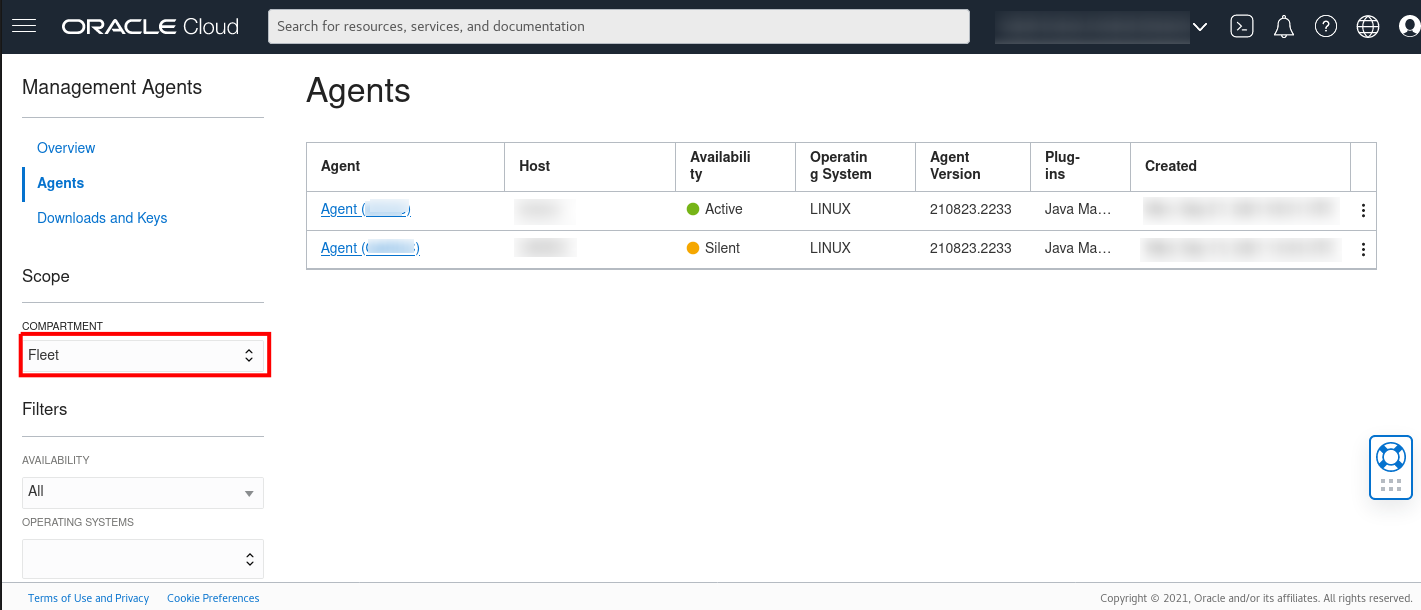
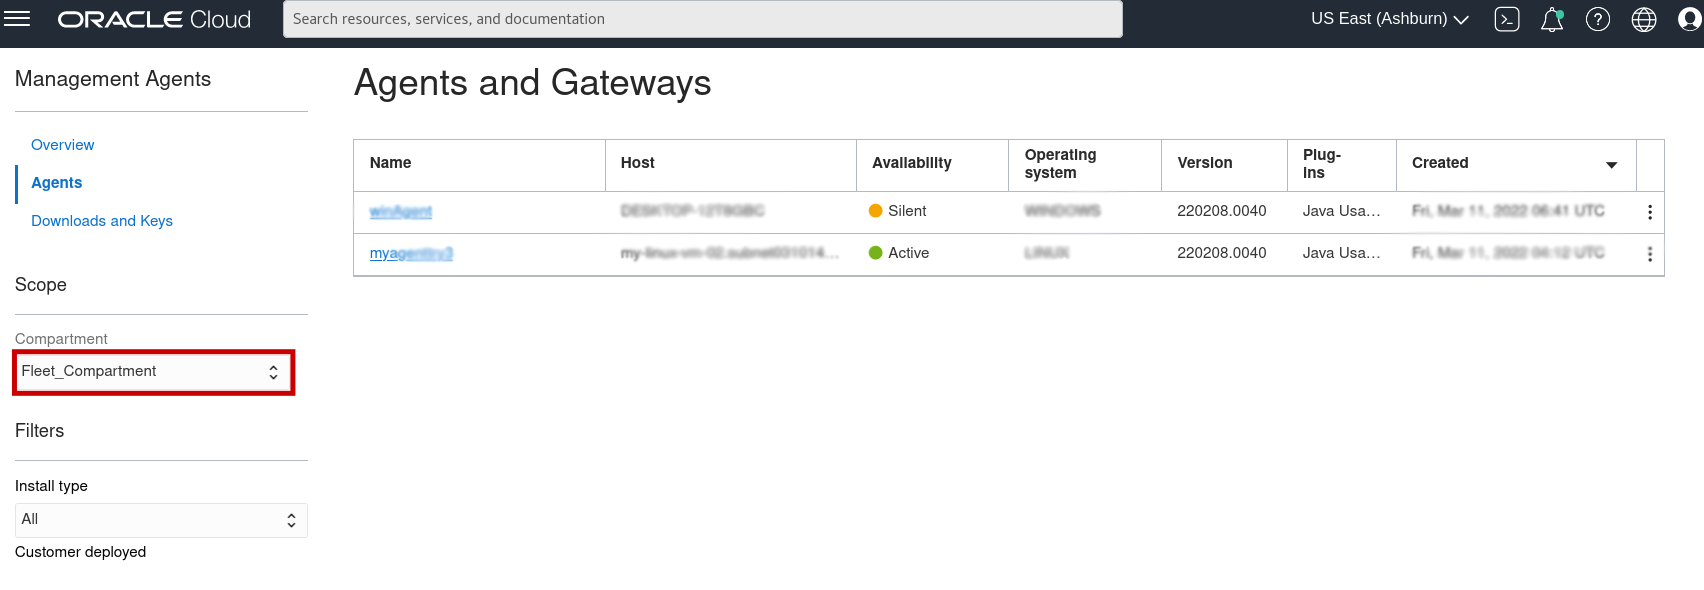
fixed comment 3, 6 and 10

diff --git a/oci-library/oci-hol/java-management/set-up-of-management-agent-windows/set-up-of-management-agent-windows.md b/oci-library/oci-hol/java-management/set-up-of-management-agent-windows/set-up-of-management-agent-windows.md
@@ -206,11 +206,11 @@ Install Management Agent (If your host is Linux, skip to skip to Lab 5: Install 
 
 1. In the Oracle Cloud Console, open the navigation menu, click **Observability & Management**, and then click **Agents** under **Management Agent**.
 
-  ![image of console navigation to access management agent overview](/../images/management-agent-overview.png)
+  ![image of console navigation to access management agent overview](/../images/agents-main-page-new.png)
+
 
 2. From the Agents list, look for the agent that was recently installed.
 
-  ![image of management agent list](/../images/management-agent-list.png)
 
 ## Task 4: Configure Java Usage Tracker
 
@@ -272,9 +272,10 @@ Install Management Agent (If your host is Linux, skip to skip to Lab 5: Install 
 
   ![image of console navigation to java management service](/../images/console-navigation-jms.png)
 
-  * Select the Fleet created in Lab 3.
+  * Select the Fleet created in [Lab 2](?lab=setup-a-fleet).
 
   ![image of fleet page](/../images/check-fleet-ocid-page.png)
+
 
   * Take note of the fleet ocid for steps 2-4.
 

diff --git a/oci-library/oci-hol/java-management/set-up-of-management-agent-linux/set-up-of-management-agent-linux.md b/oci-library/oci-hol/java-management/set-up-of-management-agent-linux/set-up-of-management-agent-linux.md
@@ -160,7 +160,7 @@ Install Management Agent (If your host is Windows, skip to Lab 6: Install Manage
 
 2. From the Agents list, look for the agent that was recently installed.
 
-  ![image of management agent list](/../images/management-agent-list.png)
+    ![image of agents main page](/../images/agents-main-page-new.png)
 
 ## Task 4: Configure Java Usage Tracker
 
@@ -190,14 +190,14 @@ Install Management Agent (If your host is Windows, skip to Lab 6: Install Manage
 
   ![image of console navigation to java management service](/../images/console-navigation-jms.png)
 
-  * Select the Fleet created in Lab 3.
+  * Select the Fleet created in [Lab 2](?lab=setup-a-fleet).
 
   ![image of fleet page](/../images/check-fleet-ocid-page.png)
 
   * Take note of the fleet ocid for steps 2-4.
 
   ![image of fleet ocid](/../images/check-fleet-ocid.png)
-<!--  -->
+
 
 2. In the Oracle Cloud Console, open the navigation menu and click **Observability & Management**, and then click **Agents**.
   ![image of console navigation to management agents](/../images/console-navigation-agents.png)

diff --git a/oci-library/oci-hol/java-management-oci-services-integration/access-and-utilise-rest-api-via-jms-sdk-postman/access-and-utilise-rest-api-via-jms-sdk-postman.md b/oci-library/oci-hol/java-management-oci-services-integration/access-and-utilise-rest-api-via-jms-sdk-postman/access-and-utilise-rest-api-via-jms-sdk-postman.md
@@ -76,7 +76,7 @@ In this lab, you will:
     Refer to [API Reference and Endpoints](https://docs.oracle.com/en-us/iaas/api/#/en/jms/20210610/Fleet/GetFleet) for more detail related to the sample API code.
 
 
-2. Create a new Java Maven project. Name it as **GetFleetExample** and paste the sample API code in it. Add the Fleet OCID at **fleet_OCID** placeholder. Refer to Task 1 to check how to find the fleet OCID
+2. Create a new Java Maven project. Name it as **GetFleetExample** and paste the sample API code in it. Add the Fleet OCID at **fleet_OCID** placeholder. Refer to [Lab 1 Task 3](?lab=access-and-utilise-rest-api-via-oci-cli#Task3:AccessRESTAPIviaOCICLI) to check how to find the fleet OCID.
 
     ![image of java sdk example code](/../images/java-sdk-own.png)
 

diff --git a/oci-library/oci-hol/java-management/deploy-a-java-application/deploy-a-java-application.md b/oci-library/oci-hol/java-management/deploy-a-java-application/deploy-a-java-application.md
@@ -38,6 +38,9 @@ In this workshop, you will:
     **Initial Options**
     * **Name**: `<name-for-the-instance>`
     * **Create in compartment**: `<your-compartment>`
+
+     > **Note:** It is important for Compute Instance to be in the same Compartment as the other OCI Resources such as Policies. Select the `Fleet_Compartment` Compartment if you selected Onboarding Wizard option in Task 1, otherwise select the Compartment that you created.
+
     Enter a value for the name or leave the system supplied default.
 
     Review the Placement settings. Take the default values provided by the wizard. The following is sample data. The actual values change over time or differ in a different data center.
